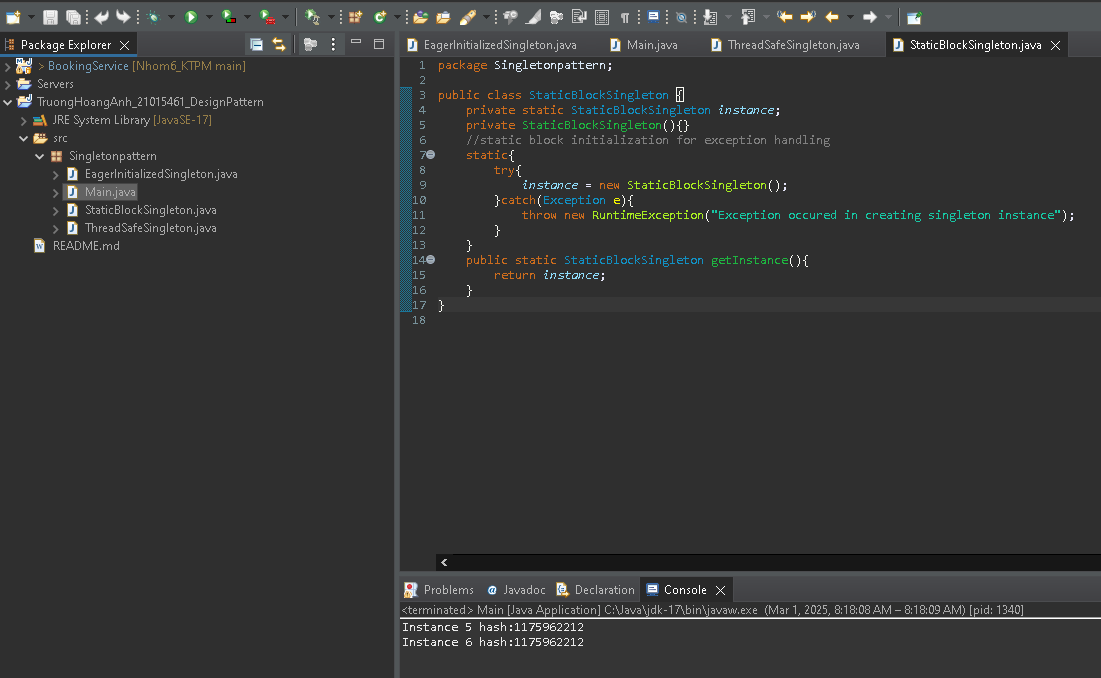
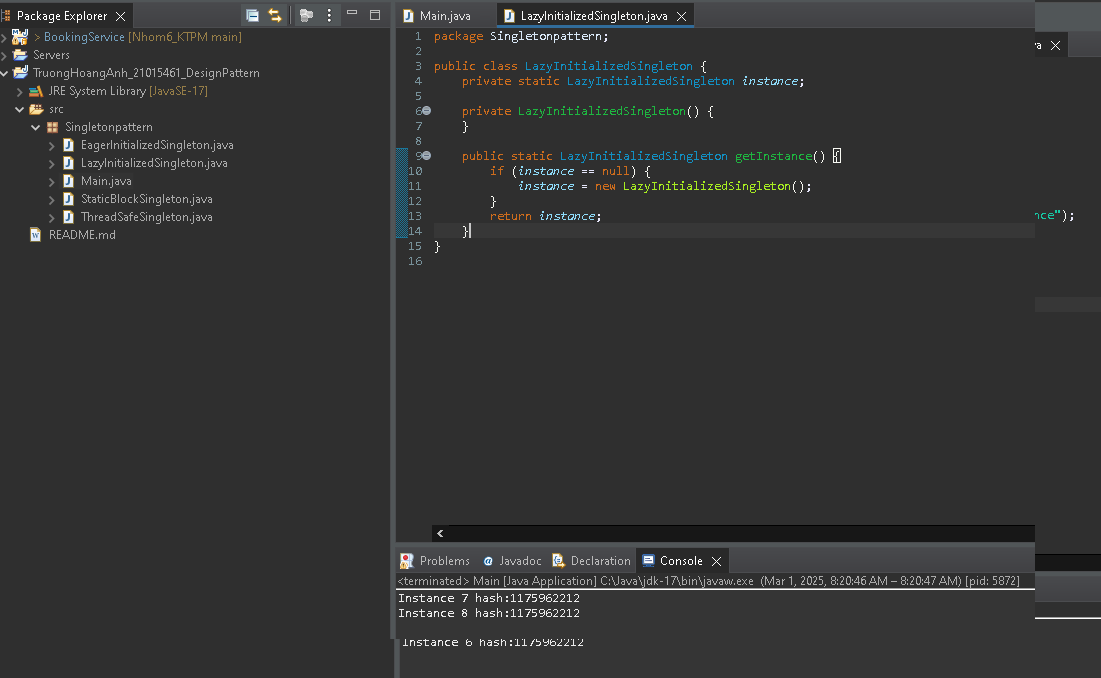
Add class LazyInitializedSingleton and img LazyInitializedSingleton

diff --git a/src/Singletonpattern/Main.java b/src/Singletonpattern/Main.java
@@ -12,10 +12,15 @@ public class Main {
 //        System.out.println("Instance 3 hash:" + instance3.hashCode());
 //        System.out.println("Instance 4 hash:" + instance4.hashCode());
         
-        StaticBlockSingleton instance5 = StaticBlockSingleton.getInstance();
-        StaticBlockSingleton instance6 = StaticBlockSingleton.getInstance();
-        System.out.println("Instance 5 hash:" + instance5.hashCode());
-        System.out.println("Instance 6 hash:" + instance6.hashCode());
+//        StaticBlockSingleton instance5 = StaticBlockSingleton.getInstance();
+//        StaticBlockSingleton instance6 = StaticBlockSingleton.getInstance();
+//        System.out.println("Instance 5 hash:" + instance5.hashCode());
+//        System.out.println("Instance 6 hash:" + instance6.hashCode());
+        
+        LazyInitializedSingleton instance7 = LazyInitializedSingleton.getInstance();
+        LazyInitializedSingleton instance8 = LazyInitializedSingleton.getInstance();
+        System.out.println("Instance 7 hash:" + instance7.hashCode());
+        System.out.println("Instance 8 hash:" + instance8.hashCode());
         
 	}
 	

diff --git a/src/Singletonpattern/LazyInitializedSingleton.java b/src/Singletonpattern/LazyInitializedSingleton.java
@@ -1,0 +1,15 @@
+package Singletonpattern;
+
+public class LazyInitializedSingleton {
+	private static LazyInitializedSingleton instance;
+
+	private LazyInitializedSingleton() {
+	}
+
+	public static LazyInitializedSingleton getInstance() {
+		if (instance == null) {
+			instance = new LazyInitializedSingleton();
+		}
+		return instance;
+	}
+}
